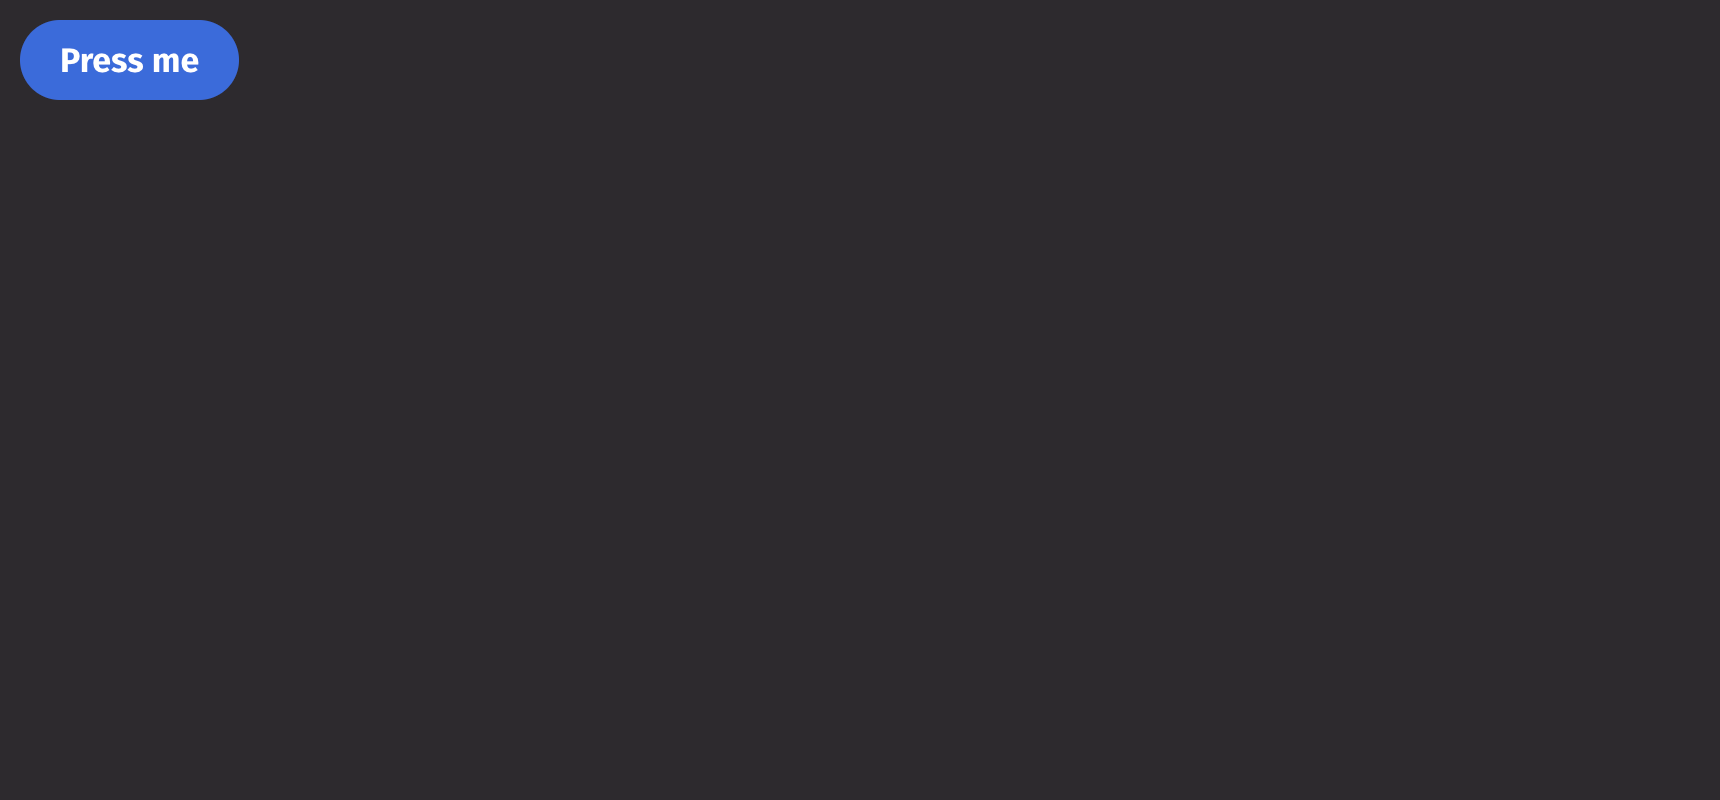
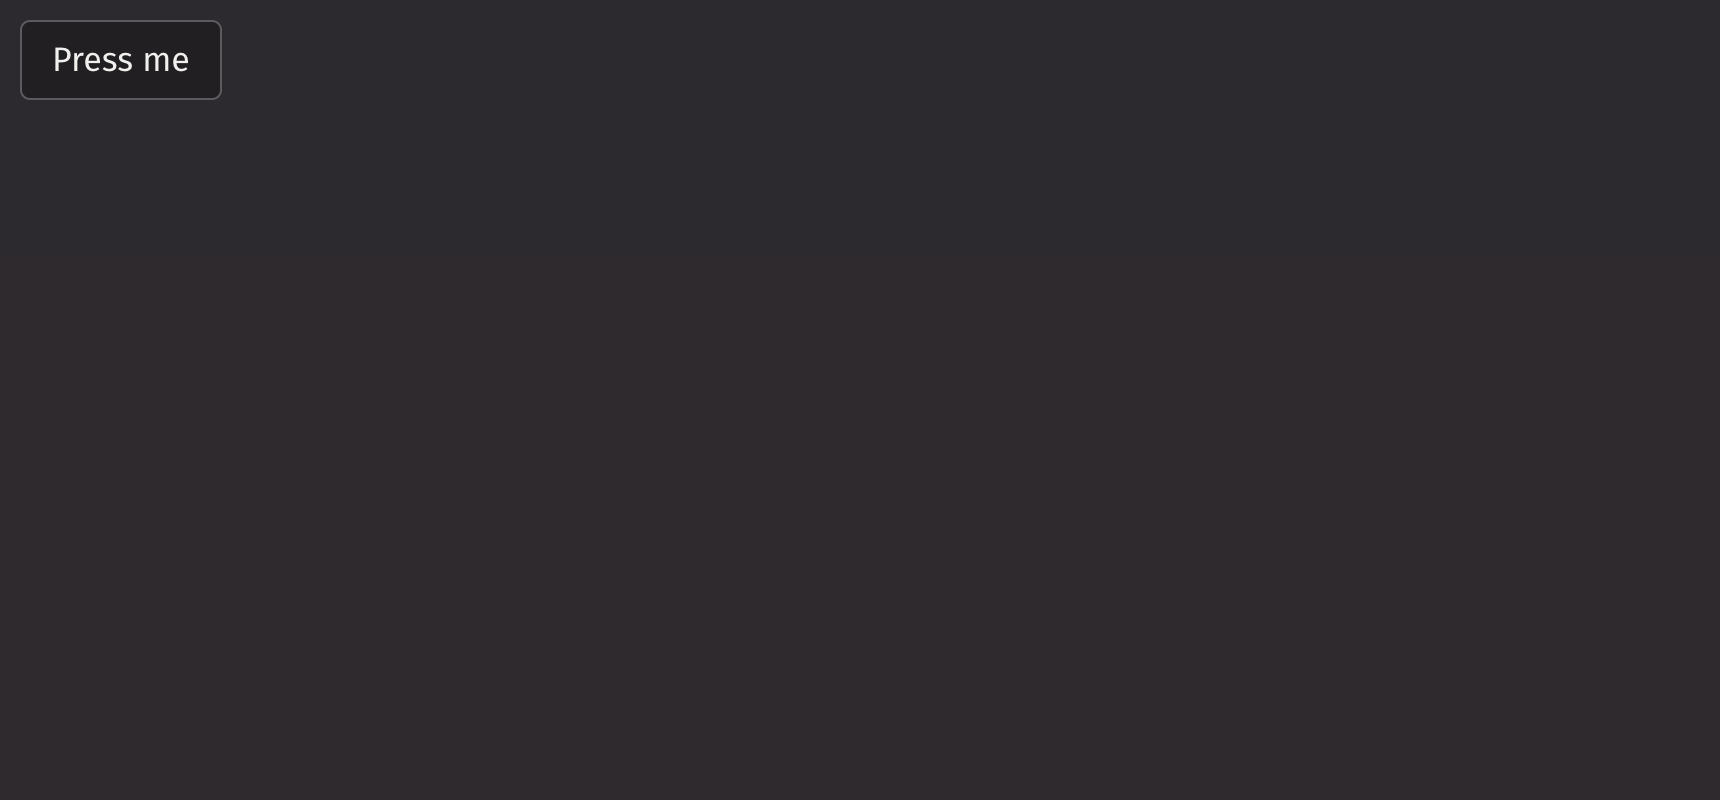
PR comments

Changed region(s): [[0.0, 0.0, 0.1541, 0.125]]

diff --git a/plugins/ui/docs/components/view.md b/plugins/ui/docs/components/view.md
@@ -14,8 +14,8 @@ from deephaven import ui
 view = ui.view(
     ui.text_field(label="Name"),
     border_width="thin",
-    border_color="accent-400",
-    background_color="seafoam-500",
+    border_color="seafoam-800",
+    background_color="seafoam-300",
     border_radius="medium",
     padding="size-250",
 )

diff --git a/plugins/ui/docs/components/link.md b/plugins/ui/docs/components/link.md
@@ -10,7 +10,7 @@ from deephaven import ui
 my_link_basic = ui.link("Learn more about Deephaven", href="https://deephaven.io/")
 ```
 
-![Link Basic Example](../_assets/Link_basic.png)
+![Link Basic Example](../_assets/link_basic.png)
 
 ## Content
 
